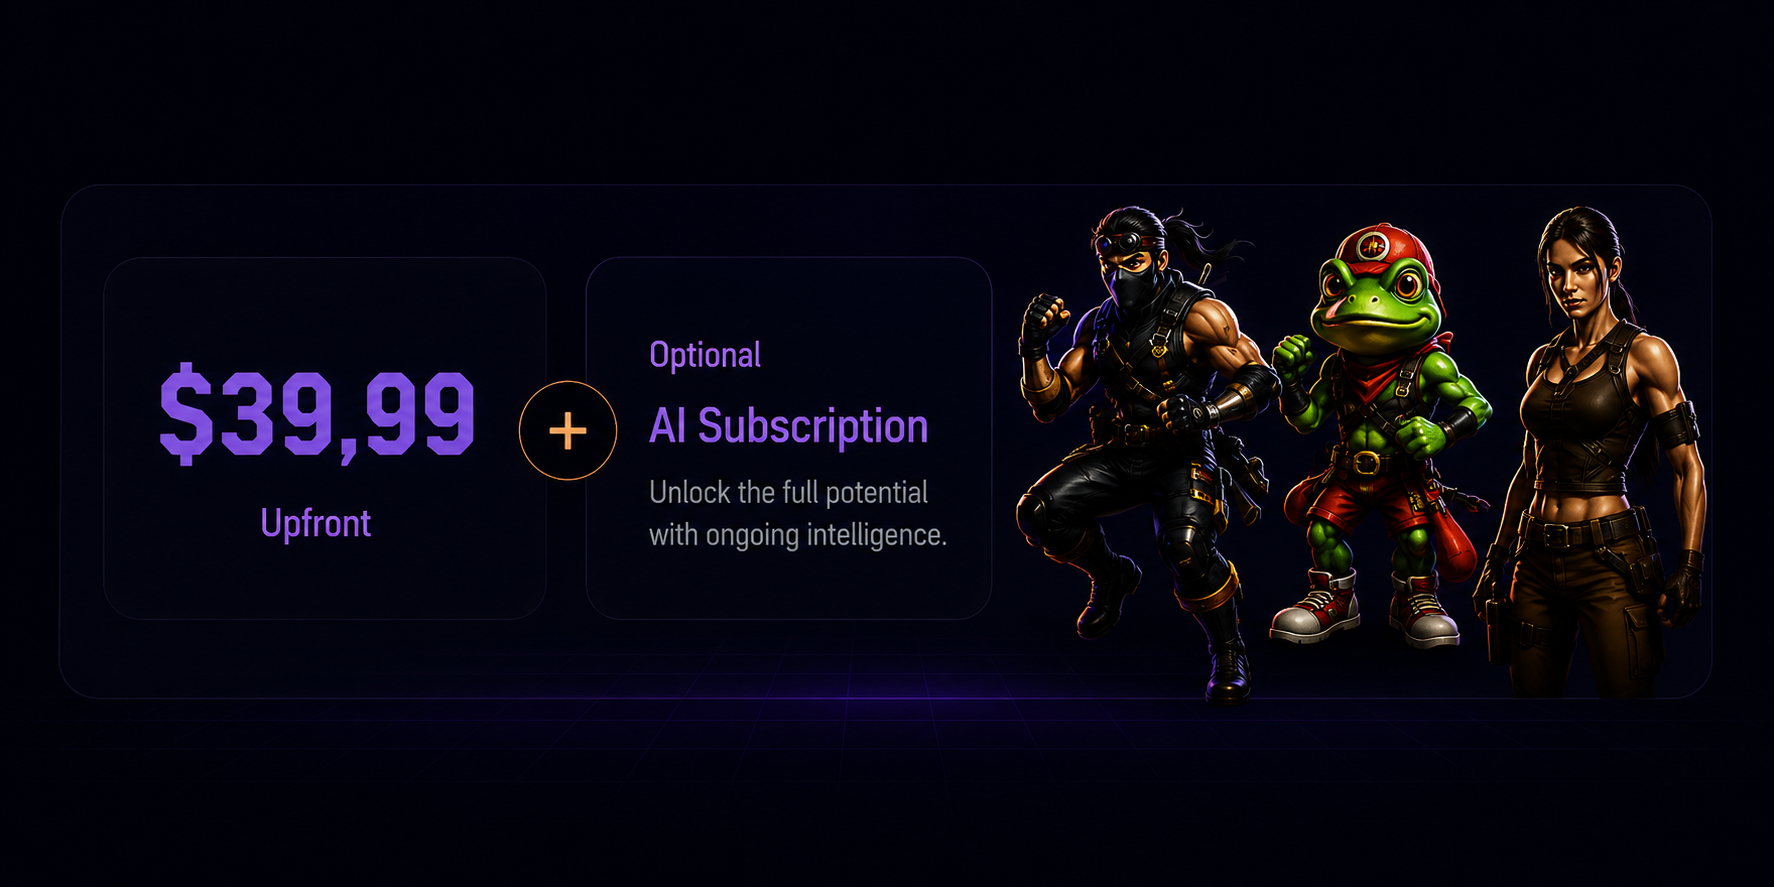
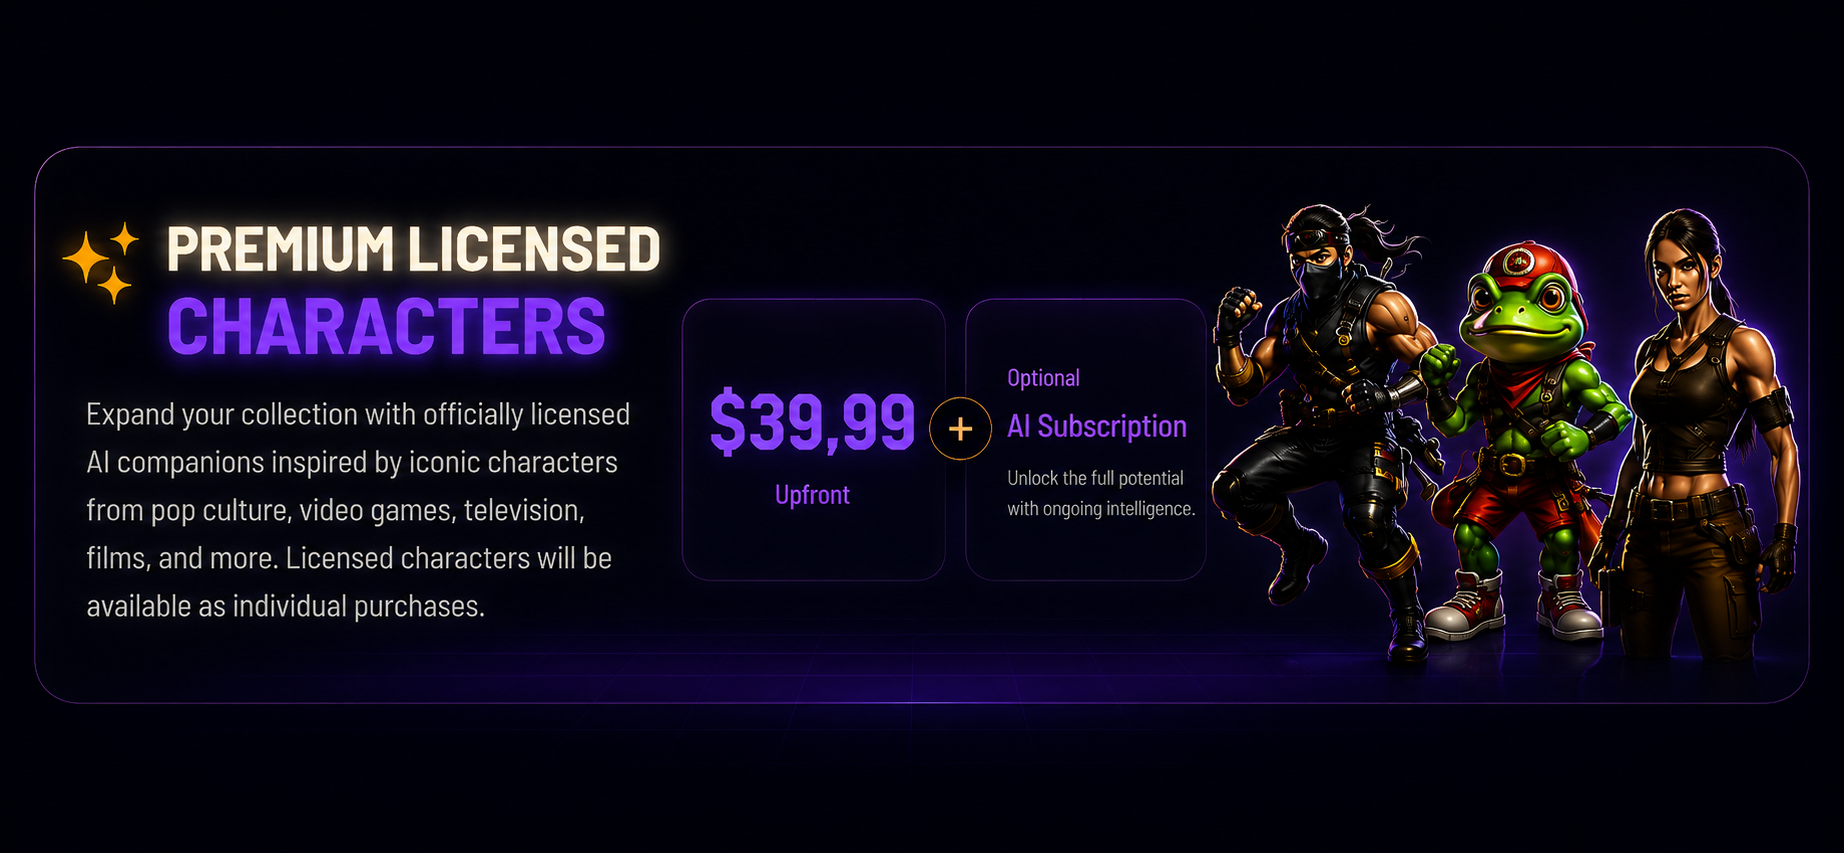
done

diff --git a/src/components/PricingNavbar.tsx b/src/components/PricingNavbar.tsx
@@ -5,12 +5,14 @@ import { motion, AnimatePresence } from 'framer-motion';
 import { Menu, X } from 'lucide-react';
 import Link from 'next/link';
 import Image from 'next/image';
+import { usePopup } from '../contexts/PopupContext';
 
 export default function PricingNavbar() {
+  const { isPopupOpen, popupType, openPopup, closePopup } = usePopup();
   const [isMobileMenuOpen, setIsMobileMenuOpen] = useState(false);
 
   const navLinks = [
-    { name: 'What Are Syns', href: '#' },
+    { name: 'What Are Syns', href: '#', isPopup: true, popupType: 'what-are-syns' },
     { name: 'Our Products', href: '#' },
     { name: 'For Streamers', href: '#' },
   ];
@@ -21,33 +23,42 @@ export default function PricingNavbar() {
   <div className="max-w-[1600px] mx-auto h-full flex items-center px-6 lg:px-12">
 
     {/* Logo */}
-    <Link href="/" className="flex items-center shrink-0">
+    <Link href="/" className="flex items-center gap-2 shrink-0">
       <Image
-        src="/syn.png"
+        src="/Cohost Synth logo.png"
         alt="Synth Cohost"
         width={120}
         height={40}
-        className="w-auto h-10"
+        className="w-auto h-8"
         loading="eager"
       />
+      <span className="text-[13px] font-extrabold tracking-[-0.3px] text-white leading-[1.1]">
+        SYNTH<span className="block font-normal">COHOST</span>
+      </span>
     </Link>
 
-    {/* Navigation - pushed much closer to logo */}
-    <ul className="hidden  ml-65 md:flex gap-8">
+    {/* Navigation - centered */}
+    <ul className="flex gap-4 md:gap-8 flex-1 justify-center">
       {navLinks.map((link) => (
         <li key={link.name}>
-          <Link
-            href={link.href}
-            className="text-[15px] font-medium text-[#A8A8B5] hover:text-white transition-colors cursor-pointer"
-          >
-            {link.name}
-          </Link>
+          {(link as any).isPopup ? (
+            <button
+              onClick={() => openPopup((link as any).popupType || null)}
+              className="text-[12px] sm:text-[13px] md:text-[15px] font-medium text-[#A8A8B5] hover:text-white transition-colors cursor-pointer border-0 bg-transparent p-0"
+            >
+              {link.name}
+            </button>
+          ) : (
+            <Link
+              href={link.href}
+              className="text-[12px] sm:text-[13px] md:text-[15px] font-medium text-[#A8A8B5] hover:text-white transition-colors cursor-pointer"
+            >
+              {link.name}
+            </Link>
+          )}
         </li>
       ))}
     </ul>
-
-    {/* Pushes everything after this to the far right */}
-    <div className="flex-1" />
 
     {/* Join Waitlist Button */}
     <button className="hidden md:block px-8 h-12 rounded-xl border border-[#8B3DFF] text-white font-medium hover:bg-[#8B3DFF]/10 transition-colors cursor-pointer">
@@ -80,19 +91,69 @@ export default function PricingNavbar() {
           >
             <div className="px-6 py-8 space-y-4">
               {navLinks.map((link) => (
-                <Link
-                  key={link.name}
-                  href={link.href}
-                  onClick={() => setIsMobileMenuOpen(false)}
-                  className="block text-lg font-medium text-[#A8A8B5] hover:text-white transition-colors cursor-pointer"
-                >
-                  {link.name}
-                </Link>
+                (link as any).isPopup ? (
+                  <button
+                    key={link.name}
+                    onClick={() => {
+                      openPopup((link as any).popupType || null);
+                      setIsMobileMenuOpen(false);
+                    }}
+                    className="block text-lg font-medium text-[#A8A8B5] hover:text-white transition-colors w-full text-left cursor-pointer border-0 bg-transparent p-0"
+                  >
+                    {link.name}
+                  </button>
+                ) : (
+                  <Link
+                    key={link.name}
+                    href={link.href}
+                    onClick={() => setIsMobileMenuOpen(false)}
+                    className="block text-lg font-medium text-[#A8A8B5] hover:text-white transition-colors cursor-pointer"
+                  >
+                    {link.name}
+                  </Link>
+                )
               ))}
               {/* Join Waitlist Button in Mobile */}
               <button className="w-full mt-6 px-8 h-12 rounded-xl border border-[#8B3DFF] text-white font-medium hover:bg-[#8B3DFF]/10 transition-colors cursor-pointer">
                 Join Waitlist
               </button>
+            </div>
+          </motion.div>
+        )}
+      </AnimatePresence>
+
+      {/* Popup Modal */}
+      <AnimatePresence>
+        {isPopupOpen && (
+          <motion.div
+            initial={{ opacity: 0 }}
+            animate={{ opacity: 1 }}
+            exit={{ opacity: 0 }}
+            className="fixed inset-0 z-50 bg-black/50 backdrop-blur-sm"
+            onClick={() => closePopup()}
+          >
+            <div className="flex items-center justify-center min-h-screen px-4">
+              <motion.div
+                initial={{ scale: 0.9, opacity: 0 }}
+                animate={{ scale: 1, opacity: 1 }}
+                exit={{ scale: 0.9, opacity: 0 }}
+                className="relative rounded-2xl p-8 w-[95vw] max-w-[1800px]"
+                onClick={(e) => {
+                  e.stopPropagation();
+                  closePopup();
+                }}
+              >
+                <div className="relative">
+                  <Image
+                    src="/cdc.png"
+                    alt="What Are Syns"
+                    width={1800}
+                    height={900}
+                    className="w-full max-h-[550px] object-contain border-0 cursor-pointer"
+                    unoptimized
+                  />
+                </div>
+              </motion.div>
             </div>
           </motion.div>
         )}

diff --git a/src/components/DesktopPricing.tsx b/src/components/DesktopPricing.tsx
@@ -40,12 +40,12 @@ export default function DesktopPricing() {
             <h3 className="text-[18px] font-bold uppercase text-white mb-2">FREE TIER</h3>
             <div className="text-[44px] font-black text-[#8B3DFF] mb-2">$0</div>
             
-            <div className="absolute right-4 top-32">
+            <div className="absolute right-0 top-20 -mr-15">
               <Image
                 src="/UUU3.png"
                 alt="Robot"
-                width={160}
-                height={160}
+                width={280}
+                height={280}
                 className="object-contain"
                 unoptimized
               />
@@ -84,12 +84,12 @@ export default function DesktopPricing() {
             <div className="text-[44px] font-black text-[#8B3DFF] mb-2">$19.99</div>
             <p className="text-[#A8A8B5] text-[14px] mb-4">One-time purchase</p>
             
-            <div className="absolute right-4 top-32">
+            <div className="absolute right-0 top-20 -mr-15">
               <Image
                 src="/UUU4.png"
                 alt="Cat"
-                width={160}
-                height={160}
+                width={280}
+                height={280}
                 className="object-contain"
                 unoptimized
               />
@@ -151,12 +151,12 @@ export default function DesktopPricing() {
               </div>
             </div>
             
-            <div className="absolute right-6 top-[140px]">
+            <div className="absolute right-0 top-24 -mr-8">
               <Image
                 src="/UUU5.png"
                 alt="Premium Robot"
-                width={155}
-                height={155}
+                width={280}
+                height={280}
                 className="object-contain"
                 unoptimized
               />

diff --git a/src/components/StreamingPricing.tsx b/src/components/StreamingPricing.tsx
@@ -20,7 +20,6 @@ const plans = [
     cta:'Start Now',
     featured:false,
     image:'/UUU6.png',
-    imageClass:'right-2 -bottom-8 w-[38%] h-[42%]',
     items:['AI cohost','Basic chat interaction','Stream overlay','Limited hours']
   },
   {
@@ -29,7 +28,6 @@ const plans = [
     cta:'Go Pro',
     featured:true,
     image:'/UUU7.png',
-    imageClass:'right-0 -bottom-8 w-[45%] h-[62%]',
     items:['Full AI cohost','Memory','Multiple personalities','Chat interaction','Streaming integrations','Voice','Analytics']
   },
   {
@@ -38,7 +36,6 @@ const plans = [
     cta:'Go Power',
     featured:false,
     image:'/UUU8.png',
-    imageClass:'right-[-5px] -bottom-8 w-[45%] h-[60%]',
     forItems:['VTubers','Professional creators','esports','agencies'],
     items:['Custom personality','Brand integrations','Sponsor behaviors','Multiple characters','Priority compute'],
     increasedHeight:true
@@ -82,12 +79,13 @@ function Card({plan, onOpenModal}:{plan:any, onOpenModal:()=>void}){
  </div>
  
  <div className="absolute right-6 bottom-10 w-44 h-44 rounded-full bg-[#8B3DFF] blur-[90px] opacity-20 z-0" />
- <div className={`absolute ${plan.imageClass} z-0`}>
+ <div className={`absolute right-0 ${plan.title === 'CREATOR STARTER' ? 'top-25 -mr-30' : plan.title === 'POWER CREATOR' ? 'top-20 -mr-20' : 'top-20 -mr-15'}`}>
    <Image 
      src={plan.image} 
      alt="" 
-     fill 
-     className="object-contain object-top" 
+     width={plan.title === 'CREATOR STARTER' ? 450 : 280}
+     height={plan.title === 'CREATOR STARTER' ? 450 : 280}
+     className="object-contain" 
      unoptimized
    />
  </div>

diff --git a/src/components/PricingHero.tsx b/src/components/PricingHero.tsx
@@ -23,7 +23,7 @@ export default function PricingHero() {
   ];
 
   return (
-    <section className="relative overflow-hidden bg-black py-25 md:py-10">
+    <section className="relative overflow-hidden bg-black py-16 md:py-10  lg:py-2">
       {/* Background Glow */}
       <div className="absolute left-[-120px] top-[120px] h-[420px] w-[420px] rounded-full bg-[#8B3DFF]/5 blur-[180px]" />
       <div className="absolute right-[-150px] top-[60px] h-[500px] w-[500px] rounded-full bg-[#7C3AED]/5 blur-[220px]" />
@@ -109,20 +109,20 @@ export default function PricingHero() {
           initial={{ opacity: 0, x: 60 }}
           animate={{ opacity: 1, x: 0 }}
           transition={{ duration: .8 }}
-          className="relative flex items-center justify-center -mt-30 md:-mt-39"
+          className="relative flex items-center justify-center mt-10"
         >
           {/* Purple glow behind image */}
 
-          <div className="absolute h-[720px] w-[720px] rounded-full bg-[#8B3DFF]/15 blur-[170px]" />
+          <div className="absolute h-[480px] w-[480px] md:h-[720px] md:w-[720px] rounded-full bg-[#8B3DFF]/15 blur-[170px]" />
 
-          <div className="relative h-[760px] w-full">
+          <div className="relative h-[900px] md:h-[760px] w-full">
             <Image
               src="/1 UUU.png"
               alt="Pricing Hero"
               fill
               priority
               unoptimized
-              className="object-contain object-center"
+              className=""
             />
           </div>
         </motion.div>

diff --git a/src/components/PricingBanner.tsx b/src/components/PricingBanner.tsx
@@ -1,17 +1,28 @@
 'use client';
 
+import { useState } from 'react';
 import Image from 'next/image';
+import WaitlistModal from './WaitlistModal';
 
 export default function PricingBanner() {
+  const [isModalOpen, setIsModalOpen] = useState(false);
+
   return (
-    <div className="w-full h-[390px] relative">
-      <Image
-        src="/hero101.png"
-        alt="Hero"
-        fill
-        className="object-cover"
-        unoptimized
-      />
-    </div>
+    <>
+      <div className="w-full h-[390px] relative">
+        <Image
+          src="/hero101.png"
+          alt="Hero"
+          fill
+          className="object-cover"
+          unoptimized
+        />
+        <div 
+          className="absolute bottom-0 right-0 w-1/3 h-1/2 cursor-pointer"
+          onClick={() => setIsModalOpen(true)}
+        />
+      </div>
+      <WaitlistModal isOpen={isModalOpen} onClose={() => setIsModalOpen(false)} />
+    </>
   );
 }

diff --git a/src/app/pricing/page.tsx b/src/app/pricing/page.tsx
@@ -5,7 +5,7 @@ import StreamingPricing from '../../components/StreamingPricing';
 import PricingBanner from '../../components/PricingBanner';
 import PricingBanner2 from '../../components/PricingBanner2';
 import LicensedCharacters from '../../components/LicensedCharacters';
-import PricingFooter from '../../components/PricingFooter';
+import Footer from '../../components/Footer';
 
 export default function PricingPage() {
   return (
@@ -17,7 +17,7 @@ export default function PricingPage() {
       <PricingBanner />
       <PricingBanner2 />
       <LicensedCharacters />
-      <PricingFooter />
+      <Footer />
     </main>
   );
 }

diff --git a/src/components/Navbar.tsx b/src/components/Navbar.tsx
@@ -18,7 +18,7 @@ type NavLink = {
 
 const navLinks: NavLink[] = [
   { name: 'What Are Syns', href: '#', isPopup: true, popupType: 'what-are-syns' },
-  { name: 'Our Products', href: '#', isPopup: true, popupType: 'our-products' },
+  { name: 'Our Products', href: '/pricing' },
   { name: 'For Streamers', href: '#streamers' },
 ];
 
